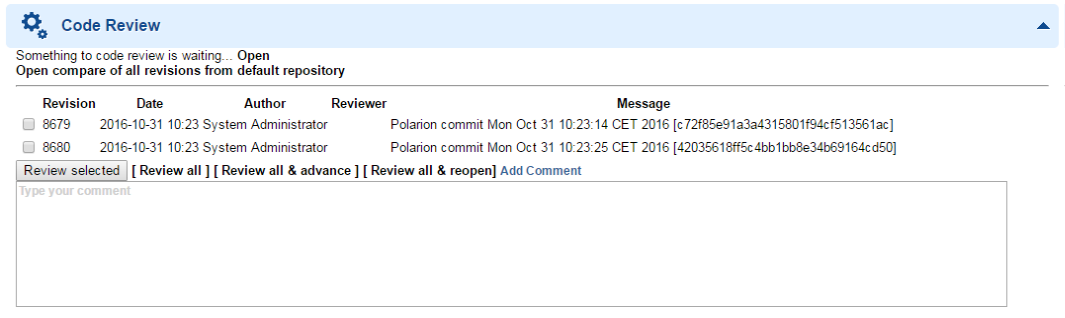
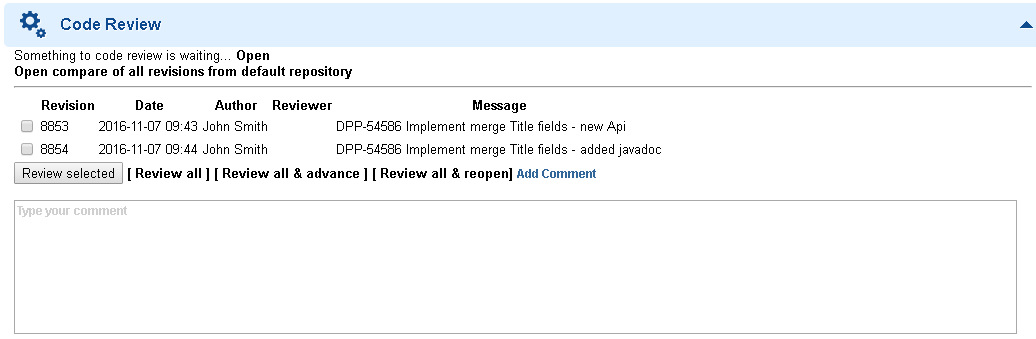
refactor variables, methods

Changed region(s): [[0.0, 0.0, 1.0, 0.6509], [0.0, 0.9623, 0.9884, 0.9906], [0.556, 0.3113, 0.6486, 0.3396]]

diff --git a/src/com/polarion/alm/extensions/codereview/Revisions.java b/src/com/polarion/alm/extensions/codereview/Revisions.java
@@ -268,14 +268,22 @@ public final class Revisions {
         return td;
     }
 
+    private static final String COMMENT_TEXT_AREA_ID = "commentTextArea";
+    private static final String REVIEW_ALL_ID = "reviewAll";
+    private static final String REVIEW_ALL_ADVANCE_ID = "reviewAllAdvance";
+    private static final String REVIEW_ALL_REOPEN_ID = "reviewAllReopen";
+    private static final String HIDDEN_ID = "hidden";
+
     private static final @NotNull String refreshCall = "setTimeout(function() { var refreshes = document.querySelectorAll('[src*=refreshBtn]'); refreshes[refreshes.length - 1].parentNode.click(); }, 500);";
-    private static final @NotNull String showAreaCall = "(function () {var textArea = document.getElementById('commentText'); textArea.style.display='block'; }());";
-    private static final @NotNull String setupSuccessfulCall = "(function () {var commentText = document.getElementById('commentText').value; var reviewAllAdvance = document.getElementById('reviewAllAdvance');"
-            + " reviewAllAdvance.href = document.getElementById('hidden').href + '&reviewComment=' + escape(commentText) + '&workflowAction=successfulReview'; reviewAllAdvance.click();" + refreshCall + "}());";
-    private static final @NotNull String setupUnsuccessfulCall = "(function () {var commentText = document.getElementById('commentText').value; var reviewAllReopen = document.getElementById('reviewAllReopen');"
-            + " reviewAllReopen.href = document.getElementById('hidden').href + '&reviewComment=' + escape(commentText) + '&workflowAction=unsuccessfulReview'; reviewAllReopen.click();" + refreshCall + "}());";
-    private static final @NotNull String setupAllCall = "(function () {var commentText = document.getElementById('commentText').value; var reviewAll = document.getElementById('reviewAll');"
-            + " reviewAll.href = document.getElementById('hidden').href + '&reviewComment=' + escape(commentText); reviewAll.click();" + refreshCall + "}());";
+    private static final @NotNull String showAreaCall = "(function () {var commentTextArea = document.getElementById('" + COMMENT_TEXT_AREA_ID + "'); commentTextArea.style.display='block'; }());";
+    private static final @NotNull String setupAllCall = "(function () {var commentText = document.getElementById('" + COMMENT_TEXT_AREA_ID + "').value; var reviewAll = document.getElementById('" + REVIEW_ALL_ID + "');"
+            + " reviewAll.href = document.getElementById('" + HIDDEN_ID + "').href + '&reviewComment=' + escape(commentText); reviewAll.click();" + refreshCall + "}());";
+    private static final @NotNull String setupSuccessfulCall = "(function () {var commentText = document.getElementById('" + COMMENT_TEXT_AREA_ID + "').value; var reviewAllAdvance = document.getElementById('" + REVIEW_ALL_ADVANCE_ID + "');"
+            + " reviewAllAdvance.href = document.getElementById('" + HIDDEN_ID + "').href + '&reviewComment=' + escape(commentText) + '&workflowAction=" + Parameters.WorkflowAction.successfulReview + "'; reviewAllAdvance.click();"
+            + refreshCall + "}());";
+    private static final @NotNull String setupUnsuccessfulCall = "(function () {var commentText = document.getElementById('" + COMMENT_TEXT_AREA_ID + "').value; var reviewAllReopen = document.getElementById('" + REVIEW_ALL_REOPEN_ID + "');"
+            + " reviewAllReopen.href = document.getElementById('" + HIDDEN_ID + "').href + '&reviewComment=' + escape(commentText) + '&workflowAction=" + Parameters.WorkflowAction.unsuccessfulReview + "'; reviewAllReopen.click();"
+            + refreshCall + "}());";
 
     public void asHTMLTable(@NotNull HtmlFragmentBuilder builder, @NotNull Parameters parameters) {
         HtmlContentBuilder form = builder.html(
@@ -297,7 +305,11 @@ public final class Revisions {
             appendStartReviewButton(parameters, form);
         }
         if (canReview) {
-            appendButtons(parameters, form);
+            if (!hasRevisionsToReviewAuthoredByCurrentUser(parameters)) {
+                appendButtons(parameters, form);
+                form.tag().br();
+                form.html("<textarea name='reviewComment' placeholder='Type your comment' id='" + COMMENT_TEXT_AREA_ID + "' style='display:none' rows='8' cols='140'></textarea>");
+            }
         }
         form.html("</form>");
     }
@@ -326,30 +338,27 @@ public final class Revisions {
 
     private void appendButtons(@NotNull Parameters parameters, @NotNull HtmlContentBuilder form) {
         form.html("<input type='submit' name='" + CodeReviewServlet.PARAM_REVIEW_SELECTED + "' value='Review selected' >");
+
         Link link = parameters.link().withAdditionalParameter(CodeReviewServlet.PARAM_REVIEW_SELECTED, "1");
         for (RevisionModel revisionModel : revisionModels) {
             if (!revisionModel.reviewed) {
                 link.withAdditionalParameter(CodeReviewServlet.PARAM_REVISIONS_TO_MARK, revisionModel.getKey());
             }
         }
+        addButton(form, null, REVIEW_ALL_ID, "[ Review all ]", setupAllCall, null);
 
-        addButton(form, null, "reviewAll", "[ Review all ]", setupAllCall, null);
-
-        if (parameters.isSuccessfulWorkflowActionConfigured() && !hasRevisionsToReviewAuthoredByCurrentUser(parameters)) {
-            addButton(form, null, "reviewAllAdvance", "[ Review all & advance ]", setupSuccessfulCall, null);
+        if (parameters.isSuccessfulWorkflowActionConfigured()) {
+            addButton(form, null, REVIEW_ALL_ADVANCE_ID, "[ Review all & advance ]", setupSuccessfulCall, null);
         }
-        if (parameters.isUnsuccessfulWorkflowActionConfigured() && !hasRevisionsToReviewAuthoredByCurrentUser(parameters)) {
-            addButton(form, null, "reviewAllReopen", "[ Review all & reopen]", setupUnsuccessfulCall, null);
+        if (parameters.isUnsuccessfulWorkflowActionConfigured()) {
+            addButton(form, null, REVIEW_ALL_REOPEN_ID, "[ Review all & reopen]", setupUnsuccessfulCall, null);
         }
+        addButton(form, null, null, "Add Comment", showAreaCall, "color:#369;font-size:12px;");
 
-        addButton(form, null, "addComment", "Add Comment", showAreaCall, "color:#369;font-size:12px;");
-
-        addButton(form, link, "hidden", "", "", "display:block");
-        form.tag().br();
-        form.html("<textarea name='reviewComment' placeholder='Type your comment' id='commentText' style='display:none' rows='8' cols='140'></textarea>");
+        addButton(form, link, HIDDEN_ID, "", "", "display:block");
     }
 
-    private void addButton(@NotNull HtmlContentBuilder form, @Nullable Link link, @NotNull String id, @NotNull String text, @NotNull String js, @Nullable String style) {
+    private void addButton(@NotNull HtmlContentBuilder form, @Nullable Link link, @Nullable String id, @NotNull String text, @NotNull String js, @Nullable String style) {
         form.nbsp();
         HtmlTagBuilder button = form.tag().b().append().tag().a();
         button.attributes().href(link != null ? link.toHtmlLink() : HtmlLinkFactory.fromEncodedUrl("javascript:void(0)}"));

diff --git a/src/com/polarion/alm/extensions/codereview/Parameters.java b/src/com/polarion/alm/extensions/codereview/Parameters.java
@@ -71,6 +71,7 @@ public class Parameters {
     private static final String PARAM_AGGREGATED_COMPARE = "aggregated";
     private static final String PARAM_COMPARE_ALL = "compareAll";
     private static final String PARAM_WORKFLOW_ACTION = "workflowAction";
+    private static final String PARAM_REVIEW_COMMENT = "reviewComment";
 
     // configuration parameters
     private static final String CONFIG_LAST_REVIEWED_REVISION_FIELD = "lastReviewedRevisionField";
@@ -110,13 +111,14 @@ public class Parameters {
     private final @Nullable String fastTrackReviewer;
     private final @Nullable String successfulReviewCommentTitle;
     private final @Nullable String unsuccessfulReviewCommentTitle;
-    private final @NotNull String reviewCommentTitle;
+    private final @Nullable String reviewCommentTitle;
+    private final @Nullable String commentText;
     private final boolean unresolvedWorkItemWithRevisionsNeedsTimePoint;
     private final @Nullable String reviewerRole;
     private final @NotNull Collection<String> pastReviewers;
     private final boolean preventReviewConflicts;
 
-    private Parameters(@NotNull IWorkItem workItem, boolean aggregatedCompare, boolean compareAll, @Nullable WorkflowAction workflowAction, @NotNull Function<IWorkItem, Properties> configurationLoader) {
+    private Parameters(@NotNull IWorkItem workItem, boolean aggregatedCompare, boolean compareAll, @Nullable WorkflowAction workflowAction, @Nullable String commentText, @NotNull Function<IWorkItem, Properties> configurationLoader) {
         super();
         this.workItem = workItem;
         this.aggregatedCompare = aggregatedCompare;
@@ -133,6 +135,7 @@ public class Parameters {
         reviewCommentTitle = configuration.getProperty(CONFIG_REVIEW_COMMENT_TITLE);
         successfulReviewCommentTitle = configuration.getProperty(CONFIG_SUCCESSFUL_REVIEW_COMMENT_TITLE);
         unsuccessfulReviewCommentTitle = configuration.getProperty(CONFIG_UNSUCCESSFUL_REVIEW_COMMENT_TITLE);
+        this.commentText = commentText;
         String fastTrackPermittedLocationPatternStr = configuration.getProperty(CONFIG_FAST_TRACK_PERMITTED_LOCATION_PATTERN);
         if (fastTrackPermittedLocationPatternStr != null) {
             fastTrackPermittedLocationPattern = Pattern.compile(fastTrackPermittedLocationPatternStr);
@@ -197,11 +200,11 @@ public class Parameters {
 
     public Parameters(@NotNull HttpServletRequest request, @NotNull Function<IWorkItem, Properties> configurationLoader) {
         this(trackerService.findWorkItem(request.getParameter(PARAM_PROJECT_ID), request.getParameter(PARAM_WORK_ITEM_ID)), Boolean.parseBoolean(request.getParameter(PARAM_AGGREGATED_COMPARE)),
-                Boolean.parseBoolean(request.getParameter(PARAM_COMPARE_ALL)), parseWorkflowAction(request.getParameter(PARAM_WORKFLOW_ACTION)), configurationLoader);
+                Boolean.parseBoolean(request.getParameter(PARAM_COMPARE_ALL)), parseWorkflowAction(request.getParameter(PARAM_WORKFLOW_ACTION)), request.getParameter(PARAM_REVIEW_COMMENT), configurationLoader);
     }
 
     public Parameters(@NotNull IWorkItem workItem, @NotNull Function<IWorkItem, Properties> configurationLoader) {
-        this(workItem, false, false, null, configurationLoader);
+        this(workItem, false, false, null, null, configurationLoader);
     }
 
     public @NotNull IWorkItem getWorkItem() {
@@ -333,7 +336,7 @@ public class Parameters {
         }
     }
 
-    public @NotNull Parameters updateWorkItem(@Nullable String newReviewedRevisions, @Nullable String newReviewer, boolean permittedToPerformWFAction, @Nullable String commentText) {
+    public @NotNull Parameters updateWorkItem(@Nullable String newReviewedRevisions, @Nullable String newReviewer, boolean permittedToPerformWFAction) {
         if (newReviewedRevisions != null) {
             workItem.setValue(reviewedRevisionsField, newReviewedRevisions);
         }
@@ -344,11 +347,11 @@ public class Parameters {
         if (permittedToPerformWFAction && workflowAction != null) {
             switch (workflowAction) {
             case successfulReview:
-                commentTitle = successfulReviewCommentTitle != null ? successfulReviewCommentTitle : reviewCommentTitle;
+                commentTitle = successfulReviewCommentTitle != null ? successfulReviewCommentTitle : "";
                 performWFAction(Objects.requireNonNull(successfulReviewWorkflowAction));
                 break;
             case unsuccessfulReview:
-                commentTitle = unsuccessfulReviewCommentTitle != null ? unsuccessfulReviewCommentTitle : reviewCommentTitle;
+                commentTitle = unsuccessfulReviewCommentTitle != null ? unsuccessfulReviewCommentTitle : "";
                 performWFAction(Objects.requireNonNull(unsuccessfulReviewWorkflowAction));
                 break;
             }
@@ -360,11 +363,11 @@ public class Parameters {
         return this;
     }
 
-    public @NotNull Parameters storeWorkItem(@Nullable final String newReviewedRevisions, @Nullable final String newReviewer, final boolean permittedToPerformWFAction, @Nullable String commentText) {
+    public @NotNull Parameters storeWorkItem(@Nullable final String newReviewedRevisions, @Nullable final String newReviewer, final boolean permittedToPerformWFAction) {
         TransactionExecuter.execute(new RunnableWEx<Void>() {
             @Override
             public Void runWEx() throws Exception {
-                updateWorkItem(newReviewedRevisions, newReviewer, permittedToPerformWFAction, commentText);
+                updateWorkItem(newReviewedRevisions, newReviewer, permittedToPerformWFAction);
                 workItem.save();
                 return null;
             }

diff --git a/src/com/polarion/alm/extensions/codereview/CodeReviewServlet.java b/src/com/polarion/alm/extensions/codereview/CodeReviewServlet.java
@@ -80,7 +80,6 @@ public class CodeReviewServlet extends HttpServlet {
     static final String PARAM_REVIEW_SELECTED = "reviewSelected";
     static final String PARAM_REVISIONS_TO_MARK = "revisionsToMark";
     static final String PARAM_SET_CURRENT_REVIEWER = "setCurrentReviewer";
-    static final String PARAM_REVIEW_COMMENT = "reviewComment";
 
     @Override
     protected void service(HttpServletRequest request, HttpServletResponse response) throws ServletException, IOException {
@@ -123,7 +122,7 @@ public class CodeReviewServlet extends HttpServlet {
             String currentUser = securityService.getCurrentUser();
             Revisions revisions = parameters.createRevisions();
             String reviewedRevisions = revisions.markReviewed(revisionsToMark, currentUser, parameters).getReviewedRevisionsFieldValue();
-            parameters.storeWorkItem(reviewedRevisions, currentUser, !revisions.hasRevisionsToReview(), request.getParameter(PARAM_REVIEW_COMMENT));
+            parameters.storeWorkItem(reviewedRevisions, currentUser, !revisions.hasRevisionsToReview());
         }
 
         response.setStatus(HttpServletResponse.SC_NO_CONTENT);
@@ -133,7 +132,7 @@ public class CodeReviewServlet extends HttpServlet {
         final Parameters parameters = new Parameters(request, Parameters.repositoryConfigurationLoader());
         if (parameters.mustStartReview()) {
             String currentUser = securityService.getCurrentUser();
-            parameters.storeWorkItem(null, currentUser, false, null);
+            parameters.storeWorkItem(null, currentUser, false);
         }
         response.setStatus(HttpServletResponse.SC_NO_CONTENT);
     }

diff --git a/src/com/polarion/alm/extensions/codereview/FastTrackReviewFunction.java b/src/com/polarion/alm/extensions/codereview/FastTrackReviewFunction.java
@@ -31,7 +31,7 @@ public class FastTrackReviewFunction implements IFunction<IWorkItem> {
         Parameters parameters = new Parameters(context.getTarget(), Parameters.repositoryConfigurationLoader());
         Revisions revisions = parameters.createRevisions();
         String reviewedRevisions = revisions.markReviewed(x -> true, Objects.requireNonNull(parameters.getFastTrackReviewer()), parameters).getReviewedRevisionsFieldValue();
-        parameters.updateWorkItem(reviewedRevisions, parameters.getFastTrackReviewer(), false, null);
+        parameters.updateWorkItem(reviewedRevisions, parameters.getFastTrackReviewer(), false);
     }
 
 }

diff --git a/README.md b/README.md
@@ -107,18 +107,18 @@ successfulReviewCommentTitle=Successful Review Comment
 unsuccessfulReviewCommentTitle=Unsuccessful Review Comment
 ``` 
 
-- `reviewedRevisionsField` should contain the id of the field listing reviewed revisions
-- `reviewerField` should contain the id of the field listing user doing the review
-- `inReviewStatus` should contain the id of the status for which the Code Review Form Extension allows to perform code review
-- `successfulReviewWorkflowAction` should contain the id of the workflow action which will be executed by "Review all & advance" action (this configuration is optional)
-- `successfulReviewResolution` should contain the id of the resolution option which will be set into Resolution field upon executing "Review all & advance" action if the workflow requires Resolution field to be filled (this configuration is optional)
-- `unsuccessfulReviewWorkflowAction` should contain the id of the workflow action which will be executed by "Review all & reopen" action (this configuration is optional) 
-- `reviewerRole` should contain name of the role added to code reviewers
-- `pastReviewers` should contain space-separated ids of users who were reviewers in the past (this configuration is optional)
-- `preventReviewConflicts` should be set to `true` if Code Review Form Extension should prevent reviews done by users which are not set in the `reviewerField` (this configuration is optional)
-- `reviewCommentTitle` Base comment title for all comments added from extension. (this configuration is optional, no comment title used instead)
-- `successfulReviewCommentTitle` Comment title when using Review All & advance button. (this configuration is optional, reviewCommentTitle used instead)
-- `unsuccessfulReviewCommentTitle` Comment title when using Review All & reopen button. (this configuration is optional, reviewCommentTitle used instead)
+- `reviewedRevisionsField` should contain the id of the field that lists the reviewed revisions.
+- `reviewerField` should contain the id of the field that lists the user doing the review.
+- `inReviewStatus` should contain the id of the “Status” that the Code Review Form Extension allows to perform the code review.
+- `successfulReviewWorkflowAction` should contain the id of the workflow action executed by the "Review all & advance" command. (This configuration is optional.)
+- `successfulReviewResolution` should contain the id of the resolution option that will populate the “Resolution” field when the "Review all & advance" command is executed and the workflow requires a value for the “Resolution” field. (This configuration is optional.)
+- `unsuccessfulReviewWorkflowAction` should contain the id of the workflow action executed by the "Review all & reopen" command. (This configuration is optional.)
+- `reviewerRole` should contain the name of the role added for code reviewers.
+- `pastReviewers` should contain the ids, (separated by spaces), of users who were reviewers in the past. (This configuration is optional.)
+- `preventReviewConflicts` should be set to `true` if the Code Review Form Extension should prevent reviews done by users that are not listed in the `reviewerField`. (This configuration is optional.)
+- `reviewCommentTitle` is the primary comment title used for all comments added via the extension. (This configuration is optional.) If it is not used, no comment title is displayed.
+- `successfulReviewCommentTitle`  is a comment’s title when the “Review all & advance” command is clicked. (This configuration is optional.) If it is not used, `reviewCommentTitle` is used instead.
+- `unsuccessfulReviewCommentTitle` is a comment’s title when the “Review all & reopen” command is clicked. (This configuration is optional). If is not used, `reviewCommentTitle` is used instead.
 
 This is how the Code Review Form Extension looks like:
 
